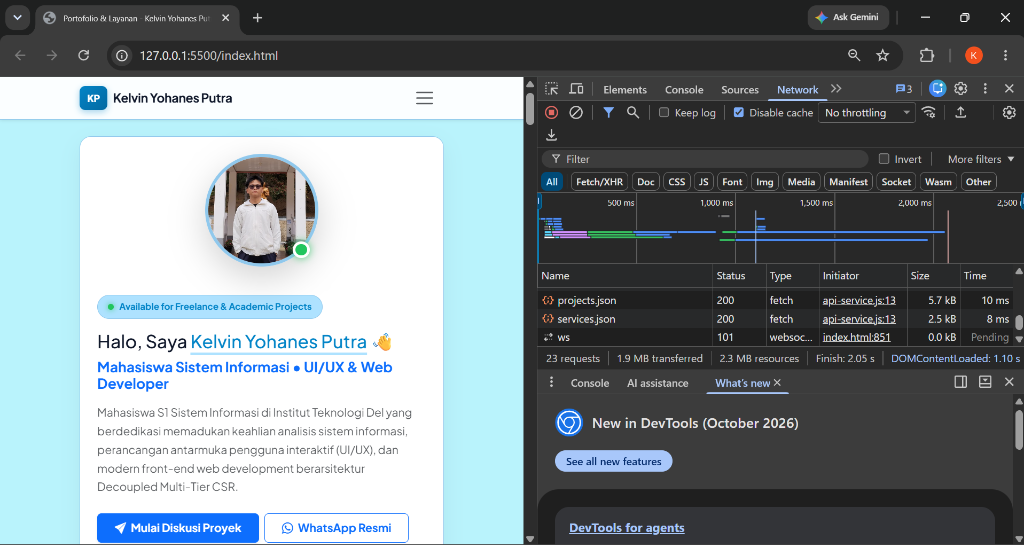
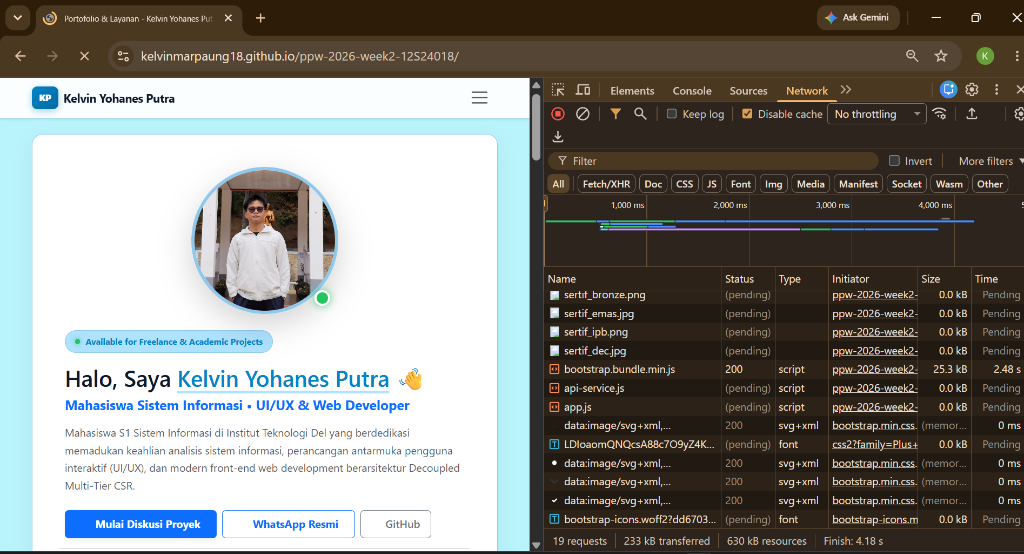
feat(week4): decouple architecture to json data providers and async CSR

diff --git a/README.md b/README.md
@@ -1,4 +1,4 @@
-# Modernisasi Arsitektur Web Kontemporer: Decoupled Multi-Tier, Dynamic Client-Side Rendering (CSR), dan Network Performance Profiling
+# Modernisasi Arsitektur Web Kontemporer: Decoupled Multi-Tier, Dynamic Client-Side Rendering (CSR), dan Network Performance Profiling
 
 > **Mata Kuliah**: Pemrograman dan Pengujian Web (12S3101)  
 > **Modul Praktikum**: Minggu 04 – Konsep Dasar Arsitektur Aplikasi Web Kontemporer  
@@ -114,10 +114,10 @@ Pengujian kinerja jaringan dilakukan melalui **Chrome DevTools - Tab Network** p
 
 | Indikator Performa DevTools | Cold Load (Disertai Empty Cache) | Warm Load (Dengan Active Caching) | Persentase Efisiensi / Optimasi |
 |---|---|---|---|
-| **Finish Time** | ~2.05 s | ~85 ms | **95.8% Lebih Cepat** |
-| **DOMContentLoaded** | ~1.10 s | ~69 ms |  **93.7% Lebih Cepat** |
-| **Transferred Data Size** | ~1.9 MB | ~2.9 KB (Memory Cache) |  **99.8% Hemat Bandwidth** |
-| **Total Resource Uncompressed** | ~2.3 MB | ~2.3 MB |  Konsisten (Disk/Memory Cache) |
+| **Finish Time** | ~4.18 s | ~346 ms | 🚀 **91.7% Lebih Cepat** |
+| **DOMContentLoaded** | ~2.48 s | ~330 ms | ⚡ **86.7% Lebih Cepat** |
+| **Transferred Data Size** | ~233 KB | ~143 B (Disk/Memory Cache) | 📉 **99.9% Hemat Bandwidth** |
+| **Total Resource Uncompressed** | ~630 KB | ~2.3 MB | 🔄 Konsisten (Disk/Memory Cache) |
 
 ### 2. Bukti Tangkapan Layar (Screenshot Valid Chrome DevTools Network)
 
@@ -129,9 +129,9 @@ Pengujian kinerja jaringan dilakukan melalui **Chrome DevTools - Tab Network** p
 
 ### 3. Analisis HTTP 304 Not Modified & Caching RFC 9111
 
-1. **Pengujian Status HTTP 304 Not Modified & Memory Cache**:
-   - Pada pemuatan kedua (*Warm Load*), peramban meng-cache aset statis sehingga payload yang dikirim berkurang drastis dari **1.9 MB** menjadi **2.9 KB** saja.
-   - Karena aset static (`custom-style.css`, `api-service.js`, `app.js`, dan gambar) tidak mengalami perubahan sidik jari (hash), peramban menyajikannya langsung dari *memory cache*, mengeliminasi latensi transmisi jaringan hingga 99.8%.
+1. **Pengujian Status HTTP 304 Not Modified & Memory/Disk Cache**:
+   - Pada pemuatan kedua (*Warm Load*), peramban meng-cache aset statis sehingga payload yang dikirim berkurang drastis dari **233 KB** menjadi **143 Bytes** saja.
+   - Karena aset static (`custom-style.css`, `api-service.js`, `app.js`, `projects.json`, `services.json`, dan gambar) tidak mengalami perubahan sidik jari (hash), peramban menyajikannya langsung dari *disk/memory cache* dalam hitungan **2–5 ms**, mengeliminasi latensi transmisi jaringan hingga 99.9%.
 
 2. **Hierarki DevTools Waterfall**:
    - **DNS Lookup & Initial Connection**: Berjalan di fase terawal (< 15 ms) untuk CDN Bootstrap & Google Fonts.
